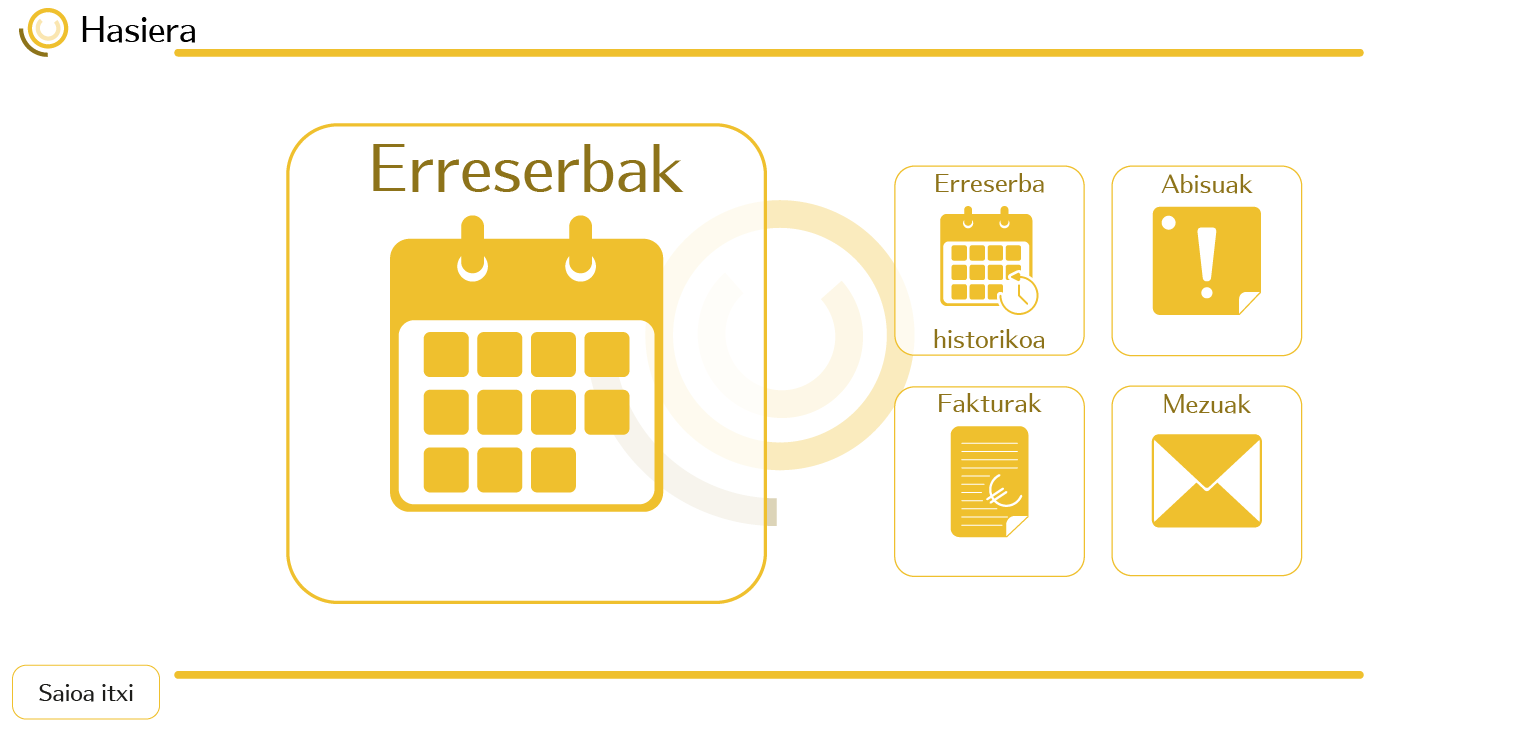
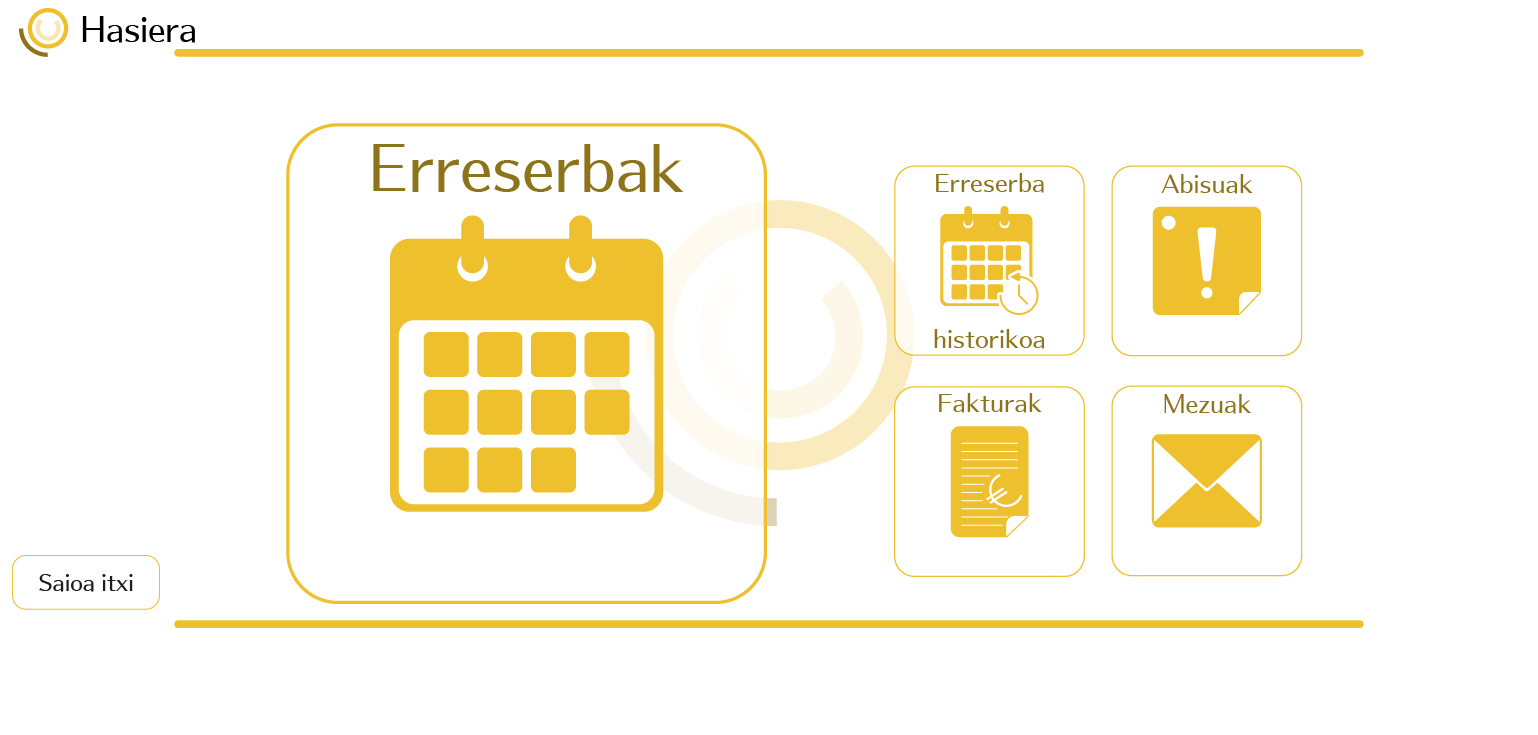
3.commit-a
aldaketak fondotan

diff --git a/menu.php b/menu.php
@@ -110,7 +110,7 @@ if (!isset($_SESSION['erabiltzailea'])) {
             height: 32%;
         }
         #saioa-itxi {
-            top: 88%;
+            top: 75%;
             left: 0.4%;
             width: 9.8%;
             height: 8%;
